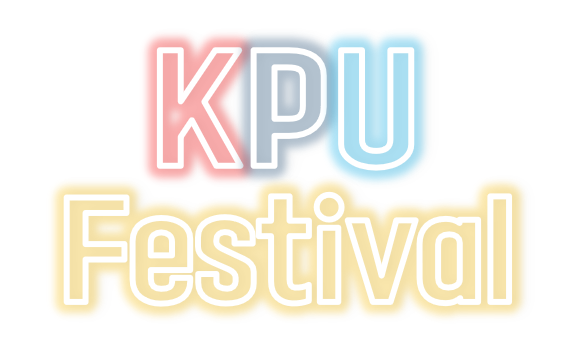
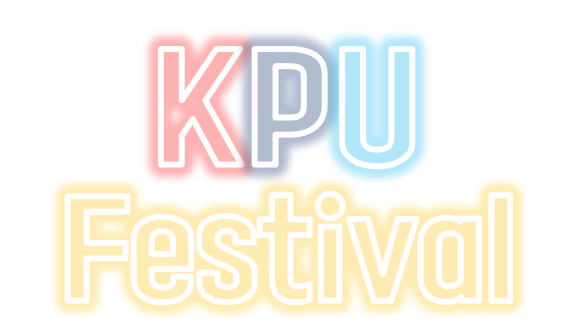
로고 animation효과 추가

Changed region(s): [[0.0936, 0.1506, 0.9047, 0.9639], [0.5927, 0.1506, 0.7487, 0.512], [0.2808, 0.3313, 0.3432, 0.5422]]

diff --git a/kpufestival/templates/base.html b/kpufestival/templates/base.html
@@ -30,6 +30,9 @@
       crossorigin="anonymous"></script>
     <link rel="stylesheet" type="text/css" href="{% static 'css/normalize.css'%}">
 
+    <!--animation cdn-->
+    <link rel="stylesheet" href="https://cdnjs.cloudflare.com/ajax/libs/animate.css/3.7.2/animate.min.css">
+
     <!-- pagePilling js   -->
     <script src="http://ajax.googleapis.com/ajax/libs/jquery/1.11.1/jquery.min.js"></script>
     <script type="text/javascript" src="{% static 'dist/jquery.pagepiling.js' %}"></script>
@@ -39,6 +42,9 @@
 
     <style>
 
+.neon img:last-child{display: none}
+.neon:hover img:first-child{display:none}
+.neon:hover img:last-child{display:inline-block}
     </style>
   </head>
 
@@ -73,10 +79,13 @@
   <!--<span id="menu" onclick="openNav()">&#9776; </span>-->
 
   <div id="icon-container" >
-
-    <a href="{% url 'home' %}" class="sm-link sm-link_padding-all sm-link1">
-      <span class="sm-link__label">
-        <img id="icon" src="{% static 'img/kpufestival2.png' %}"></span>
+    <a href="{% url 'home' %}">
+        <div class="animated flash delay-2s duration-0.5s slower">
+        <div class="neon">
+          <img id="icon" src="{% static 'img/kpufestival2.png' %}">
+          <img id="icon" src="{% static 'img/kpufestival_light.png' %}">
+        </div>
+        </div>
     </a>
   </div>
   
